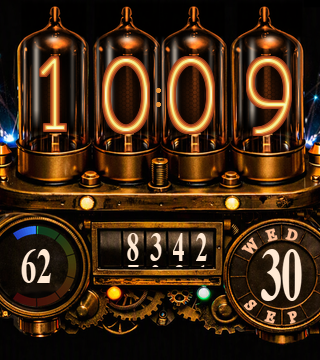
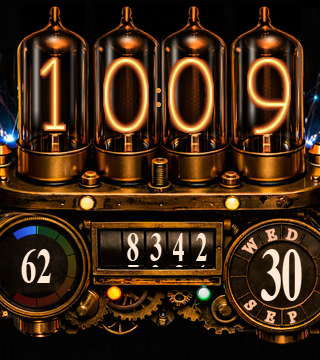
feat(ciq): the outer glow an alpha fade, via a font whose coverage IS the ramp
The user: "for the last colour, is it possible to make the alpha blend over the
background for 4 pixels out to nothing?" The outer glow was a solid 1 px band,
and four more solid bands would cost 8r glyph blits each per digit per frame,
while baking the falloff cannot follow glyphs that change every minute.

Answer: a third font, NixieTimeHalo, whose glyph masks ARE the alpha ramp
(make_fonts.halo_mask: distanceTransform, clip((d1-d)/(d1-d0)), inside zeroed,
box padded symmetrically). With antialias=true drawText blends that grey
coverage over the background, so one pass in the last glow colour gives a
per-glyph 4 px fade to nothing - measured in place at 82/34/7 and
117/93/50/10 outward on two rows. The solid band at radius 3 is gone
(GLOW_RAD3 removed), so the visible cost is one drawText per digit.

Glyphs are padded by the same amount on all four sides: the fade lives outside
the tight bbox, and the extra width cancels in drawText's centre-by-advance
maths so the ramp lands concentrically on the wire. L70 records the technique;
screenshots and the store upload set regenerated.

diff --git a/ciq/make_fonts.py b/ciq/make_fonts.py
@@ -58,15 +58,40 @@ def render_glyph(ch, px, condense, source=SERIF_BD, thin=0, thick=0):
     return g.resize((w, g.height), Image.LANCZOS)
 
 
-def build(name, specs, px, condense, source=SERIF_BD, tracking=1, thin=0, thick=0, erode=0):
+def halo_mask(g, d0, d1, pad):
+    """The glyph's OUTER fade as an 8-bit coverage mask: alpha 1 at d0 px from the stroke, falling
+    linearly to 0 at d1, and 0 inside d0, on a canvas padded by `pad` so the fade is not clipped.
+    Padding every glyph by the same amount keeps this font's advances and line height in step with the
+    wire font it overlays - the ink sits `pad` px in, so it lands exactly where the wire does.
+
+    This is how a text element gets a real alpha fade on the device: drawText has no alpha parameter,
+    but an antialiased custom font's grey coverage IS blended over the background, so encoding the fade
+    in the coverage gives a per-glyph falloff that follows whatever glyphs are drawn - which a baked
+    blob cannot do, and four more solid bands would cost 8r glyph blits each per digit per frame.
+    """
+    import cv2
+    import numpy as np
+    a = (np.asarray(g, np.uint8) > 127).astype(np.uint8) * 255
+    d = cv2.distanceTransform(255 - a, cv2.DIST_L2, 5)       # px from the stroke edge
+    alpha = np.clip((d1 - d) / float(d1 - d0), 0, 1)
+    alpha[d <= d0] = 0
+    m = Image.fromarray((alpha * 255).astype(np.uint8), "L")
+    big = Image.new("L", (m.width + 2 * pad, m.height + 2 * pad), 0)
+    big.paste(m, (pad, pad))
+    return big
+
+
+def build(name, specs, px, condense, source=SERIF_BD, tracking=1, thin=0, thick=0, erode=0,
+          halo=None):
     """specs: list of (char, codepoint). Packs glyphs left-to-right, wrapping at 512 px.
 
     `erode` (after the crop) thins the SAME glyphs without touching their box, so a font built with it
-    has identical metrics to the one it is derived from and lands concentrically on it — the mechanism
-    for drawing a hot centre line inside a wire (built, measured, and dropped in favour of painting the
-    whole stroke white with an orange rim: at a 5 px stroke an eroded core is only ~1 px and barely
-    reads). Keep it as the knob if the thin-core look is ever wanted: `thin` cannot do this job,
-    because it re-crops to the smaller bbox and the two fonts' line heights and advances then differ.
+    has identical metrics to the one it is derived from and lands concentrically on it — that is what
+    draws the wire's cream core inside the yellow body (NixieTimeHot). `thin` cannot do this job: it
+    re-crops to the smaller bbox, so the two fonts' line heights and advances would differ and the core
+    would drift off centre.
+
+    `halo` = (d0, d1, pad) turns the glyph into its own outer fade instead (see halo_mask).
     """
     glyphs = []
     for ch, cp in specs:
@@ -74,6 +99,8 @@ def build(name, specs, px, condense, source=SERIF_BD, tracking=1, thin=0, thick=
         if g is not None:
             if erode > 0:
                 g = g.filter(ImageFilter.MinFilter(2 * erode + 1)).filter(ImageFilter.GaussianBlur(0.5))
+            if halo is not None:
+                g = halo_mask(g, halo[0], halo[1], halo[2])
             glyphs.append((ch, cp, g))
     if not glyphs:
         raise SystemExit(f"{name}: no glyphs rendered")
@@ -149,6 +176,12 @@ t_atlas, t_glyphs = build("NixieTime", DIGITS, px=px_for_ink(NIXIE_ONE, 75 * TOP
 # crop, so both fonts share metrics and the core sits concentrically inside the wire.
 h_atlas, h_glyphs = build("NixieTimeHot", DIGITS, px=px_for_ink(NIXIE_ONE, 75 * TOP_K),
                           condense=0.80, source=NIXIE_ONE, erode=1)
+# NixieTimeHalo: the wire's OUTER fade, drawn in the last glow colour (INK_GLOW3). Its glyphs ARE the
+# alpha ramp - solid to 2 px out from the stroke, then blending to nothing 4 px later - so the falloff
+# follows whatever digits are shown and alpha-blends over the background. The user asked for exactly
+# that: "the last colour ... alpha blend over the background for 4 pixels out to nothing".
+hl_atlas, hl_glyphs = build("NixieTimeHalo", DIGITS, px=px_for_ink(NIXIE_ONE, 75 * TOP_K),
+                            condense=0.80, source=NIXIE_ONE, halo=(2.0, 6.0, 7))
 # NixieDay: the date dial's day number. The weekday and month moved out to the dial's ring
 # (make_date_ring.py), which freed the inner disc for a bigger number: 54 px ink (user-approved,
 # artwork/date_ring/_compare.png). Was NixieSmall at px 61 / 42 px ink.

diff --git a/ciq/preview.py b/ciq/preview.py
@@ -121,14 +121,13 @@ def ring(canvas, consts, font, text, x, y, radius, colour):
             centred(canvas, consts, font, text, x + dx, y + dy, colour)
 
 
-def glowing(canvas, consts, font, text, x, y, hot=None):
+def glowing(canvas, consts, font, text, x, y, hot=None, halo=None):
     """Mirror of the view's glowing(): the static halo rings (outer first) under the core. The rings
     no longer pulse - the glow is a fixed bright baseline. Radius 3 is the outermost step of the
     hand-painted bloom (drawText has no alpha, so a soft falloff can only be stepped bands); a radius
     equal to the next one inward is skipped, exactly as the view skips it."""
-    r3 = consts.get("GLOW_RAD3", 0)
-    if r3 and r3 != consts["GLOW_RAD2"]:
-        ring(canvas, consts, font, text, x, y, r3, consts["INK_GLOW3"])
+    if halo is not None:                      # the 4 px fade, alpha-blended by the font's coverage
+        centred(canvas, consts, halo, text, x, y, consts["INK_GLOW3"])
     if consts["GLOW_RAD2"] != consts["GLOW_RAD1"]:
         ring(canvas, consts, font, text, x, y, consts["GLOW_RAD2"], consts["INK_GLOW2"])
     ring(canvas, consts, font, text, x, y, consts["GLOW_RAD1"], consts["INK_GLOW1"])
@@ -303,6 +302,7 @@ def render(mock=True, sleep=False, consts=None, discharge=None, hr=None, backgro
     consts = consts or parse_constants()
     f_time, f_day = Font("NixieTime"), Font("NixieDay")
     f_hot = Font("NixieTimeHot")
+    f_halo = Font("NixieTimeHalo")
     f_mid, f_step = Font("NixieMid"), Font("NixieStep")
 
     face = (background.copy() if background is not None
@@ -328,7 +328,7 @@ def render(mock=True, sleep=False, consts=None, discharge=None, hr=None, backgro
         discharge.draw(face)        # as onUpdate: over the background, under every readout
     for i, d in enumerate("%02d%02d" % (hh, mm)):
         # The glow is painted back-to-front: far ring, near ring, then the core glyph on top.
-        glowing(face, consts, f_time, d, consts["TIME_X"][i], consts["TIME_Y"], f_hot)
+        glowing(face, consts, f_time, d, consts["TIME_X"][i], consts["TIME_Y"], f_hot, f_halo)
     separator(face, consts)                     # the hours/minutes colon, as the view draws it
 
     frm, to, phase = belt if belt else (belt_text(steps), belt_text(steps), 0)

diff --git a/docs/LESSONS_LEARNT.md b/docs/LESSONS_LEARNT.md
@@ -658,3 +658,23 @@ still read the digits as flat: the missing thing was the way light leaves the wi
 - **Judge it at 4x as well as at 1x.** Stepped bands can read as a blocky outline; at 4x the chosen
   ladder showed a continuous halo, visible only because the bands are 1 px each and the glyph's shape
   dominates. Cheap to check, and it is the difference between shipping a glow and shipping a border.
+**L70. drawText has no alpha, but a FONT's coverage IS alpha - that is how a text element gets a real
+gradient.** The user: "for the last colour, is it possible to make the alpha blend over the background
+for 4 pixels out to nothing?" The outer glow was a solid 1 px ring, and four more solid rings would
+have cost 8r glyph blits each per digit per frame; baking the falloff cannot work (it must follow
+glyphs that change every minute).
+
+- **Encode the ramp in a second font's glyph masks.** `make_fonts.halo_mask` puts the glyph mask
+  through `cv2.distanceTransform`, turns distance into `clip((d1 - d) / (d1 - d0), 0, 1)`, zeroes the
+  inside, and pads the box. Drawn with `antialias="true"`, that grey coverage is blended over the
+  background, so one `drawText` in the last glow colour gives a per-glyph fade - measured in place, it
+  ramps over 4-5 px (contribution 82 / 34 / 7 outward at one row, 117 / 93 / 50 / 10 at another) and
+  costs one pass instead of a third of the band cost.
+- **Pad the box symmetrically or the font will not line up.** The fade lives OUTSIDE the glyph's tight
+  bbox, so every glyph needs the same `pad` on all four sides; the extra width cancels in
+  `drawText`'s centre-because-advance maths (the ink sits `pad` px inside a box that is `2*pad` wider),
+  so the fade lands concentrically on the wire while a one-sided or per-glyph pad would drift.
+- **Verify the ramp where it is USED, not only in the atlas.** The atlas's own ramp is not the proof:
+  render the frame with the element and without it (patch the mirror's draw call for one frame) and
+  diff - the pixels the element changed, in the direction it fades, are the ramp the eye sees. Same
+  trick as L64's eroded-core mask: the render is the instrument.

diff --git a/ciq/LAYOUT.md b/ciq/LAYOUT.md
@@ -57,7 +57,7 @@ counter uses all **five** drum windows the art has (dividers at screen x 99 / 12
 
 The hours/minutes colon is DRAWN, not baked (nothing on the device rotates text, and the art has no
 colon): `SEP_X` 159 / `SEP_Y` 97 ± `SEP_DY` 7, `SEP_R` 2, in the tube 2 / tube 3 gap — all four
-generated into `source/Layout.mc`. Its ink comes from `source/TubeInk.mc` (LESSONS L60).
+generated into `source/Layout.mc`. Its ink comes from `source/TubeInk.mc` (LESSONS L60), and the tube digits' wire is drawn in three passes from the user's own hex ladder - yellow body, cream core (an eroded twin font), and an outer fade carried by a third font whose glyph coverage IS the 4 px alpha ramp (LESSONS L69-L70).
 
 ### The original uniform transform (history)
 
